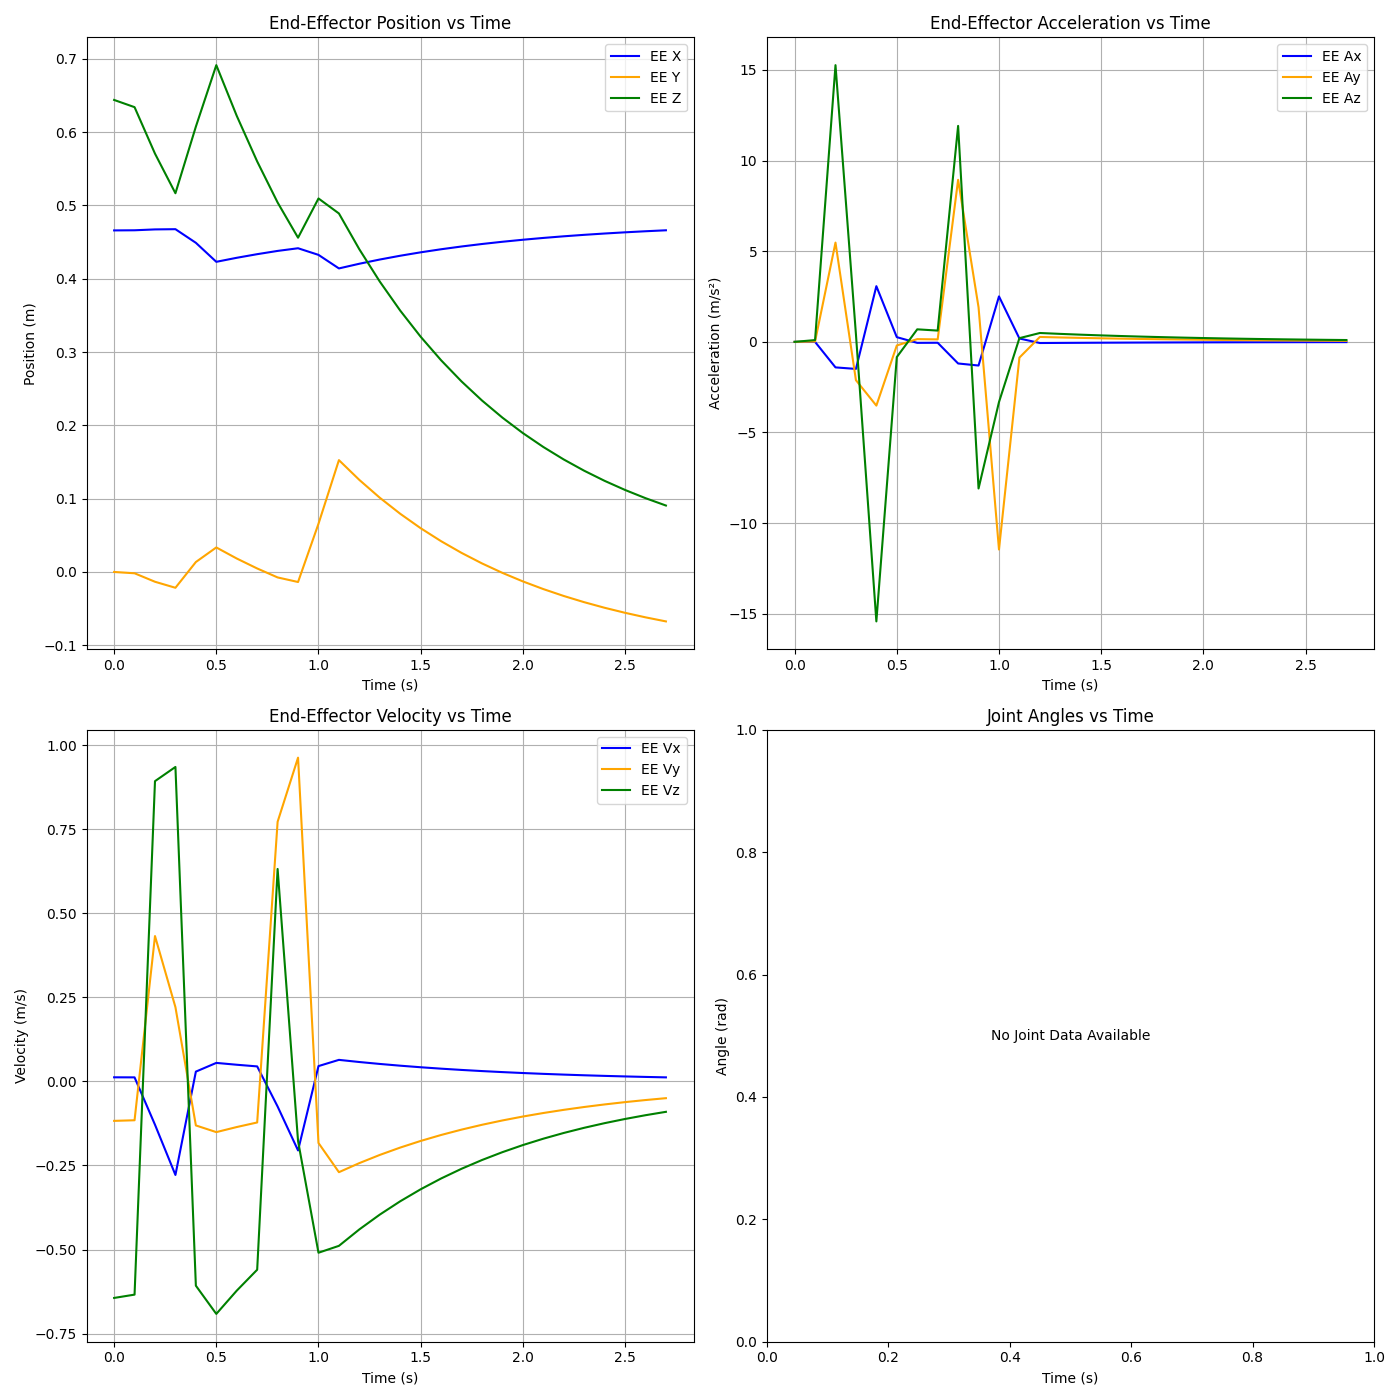
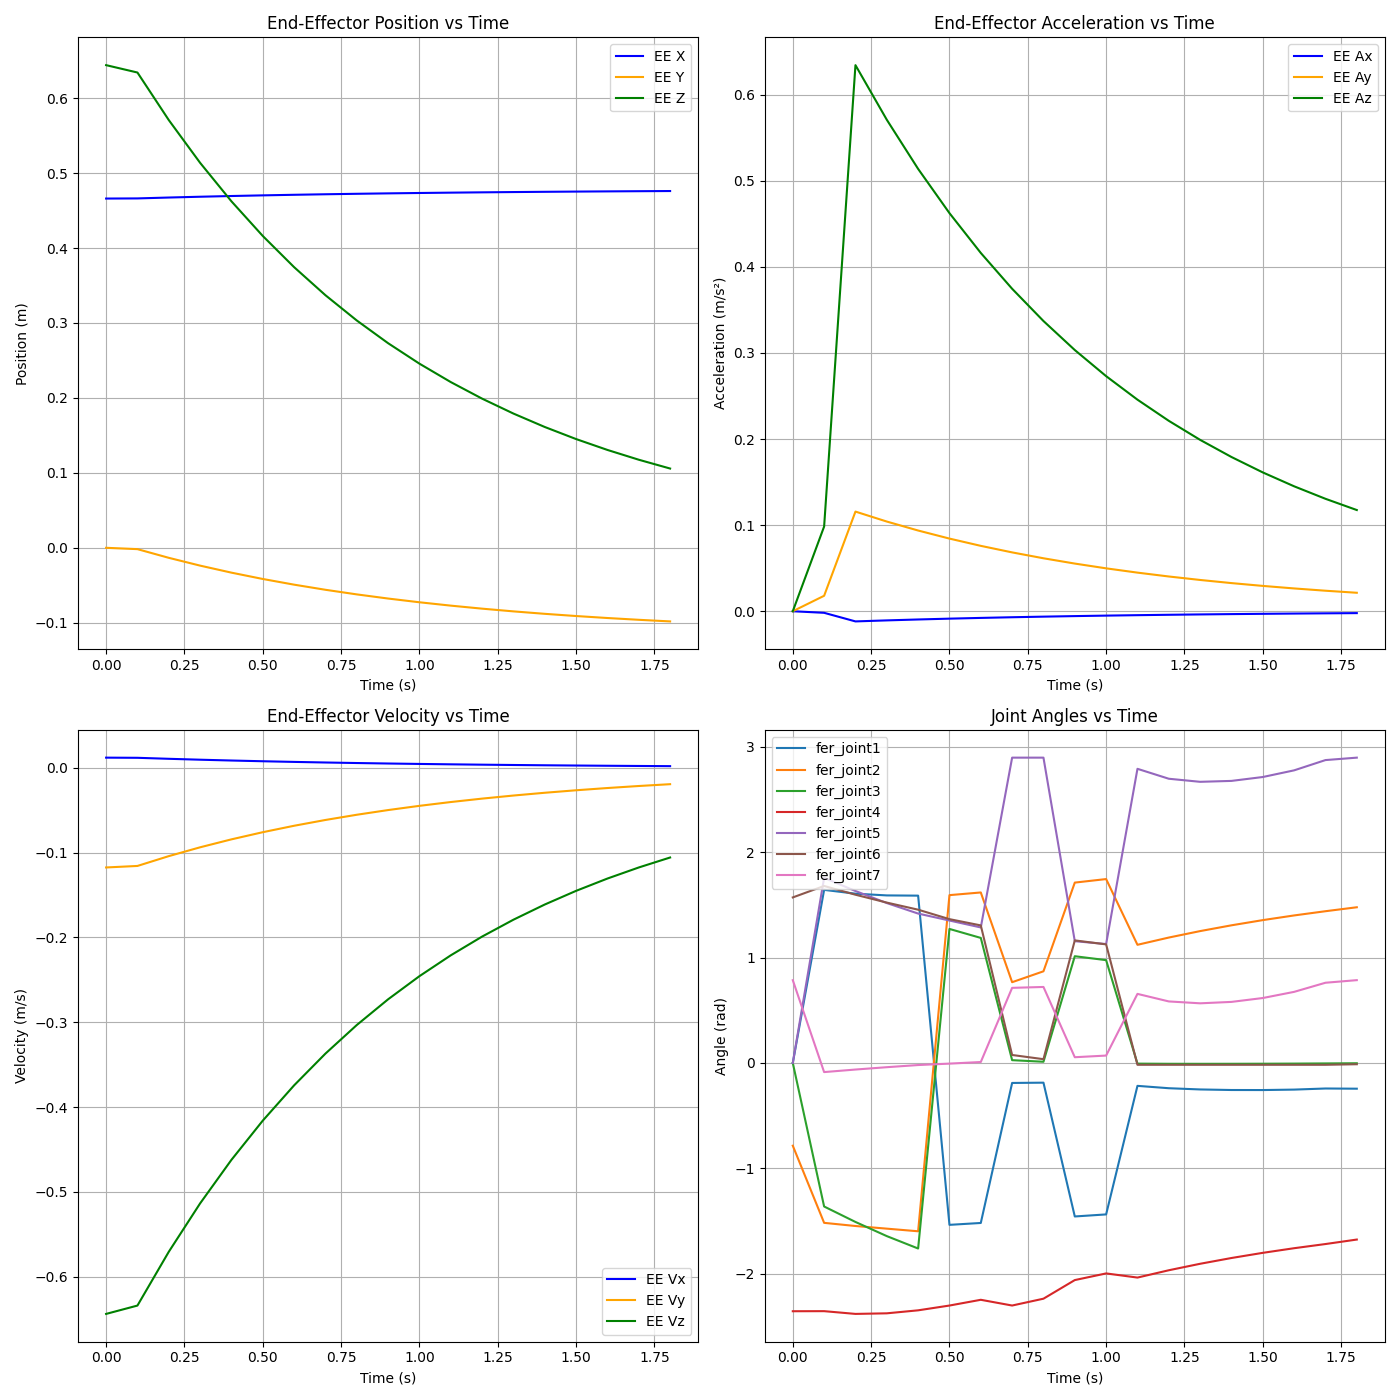
New plots

diff --git a/data/plot_plan_path_response.py b/data/plot_plan_path_response.py
@@ -62,8 +62,9 @@ def create_plot(df):
     ee_vx = df['ee_vx']
     ee_vy = df['ee_vy']
     ee_vz = df['ee_vz']
-    joint_columns = [col for col in df.columns if col.startswith('joint_')]
+    joint_columns = [col for col in df.columns if 'joint' in col]
     num_joints = len(joint_columns)
+    print(f"Found {num_joints} joint columns: {joint_columns}")
     fig, axs = plt.subplots(2, 2, figsize=(14, 14))
     # 1. EE Position vs Time
     axs[0, 0].plot(time_s, df['ee_px'], label='EE X', color='blue')
